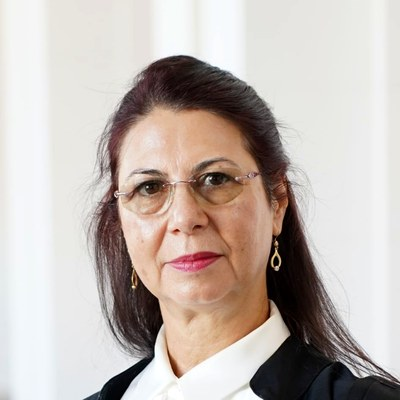
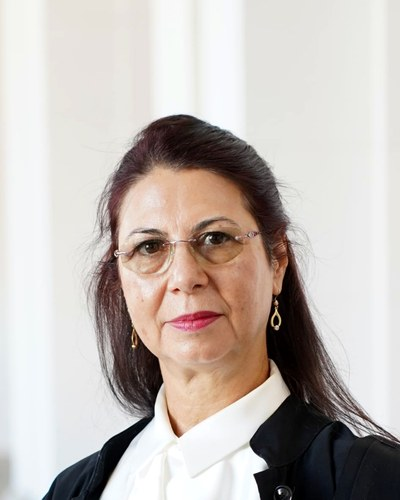
style: hero signature photo as rounded-rect card, not circle

diff --git a/css/style.css b/css/style.css
@@ -325,13 +325,21 @@ a:hover { color: var(--gold-dark); }
 
 .hero-thumb {
   flex: none;
-  width: 52px;
-  height: 52px;
+  width: 84px;
+  height: 105px;
   margin: 0;
-  border-radius: 50%;
+  border-radius: 8px;
   overflow: hidden;
-  border: 2px solid var(--gold-soft);
-  box-shadow: 0 8px 20px -8px rgba(0, 0, 0, 0.5);
+  box-shadow: 0 10px 24px -10px rgba(0, 0, 0, 0.55);
+  position: relative;
+}
+.hero-thumb::after {
+  content: "";
+  position: absolute;
+  inset: 5px;
+  border: 1px solid rgba(195, 161, 91, 0.5);
+  border-radius: 4px;
+  pointer-events: none;
 }
 .hero-thumb img { width: 100%; height: 100%; object-fit: cover; display: block; }
 

diff --git a/index.html b/index.html
@@ -52,7 +52,7 @@
         <p class="hero-note"><svg class="icon" viewBox="0 0 24 24" aria-hidden="true"><rect x="3" y="11" width="18" height="10" rx="2"/><path d="M7 11V7a5 5 0 0 1 10 0v4"/></svg> Toate discuțiile sunt protejate de secretul profesional avocațial.</p>
         <div class="hero-signature">
           <figure class="hero-thumb">
-            <img src="img/elena-lixandru-hero-badge.jpg" alt="Elena Lixandru" width="80" height="80">
+            <img src="img/elena-lixandru-hero-badge.jpg" alt="Elena Lixandru" width="400" height="500">
           </figure>
           <div class="hero-badge">
             <strong>4,9 / 5 ★</strong>
